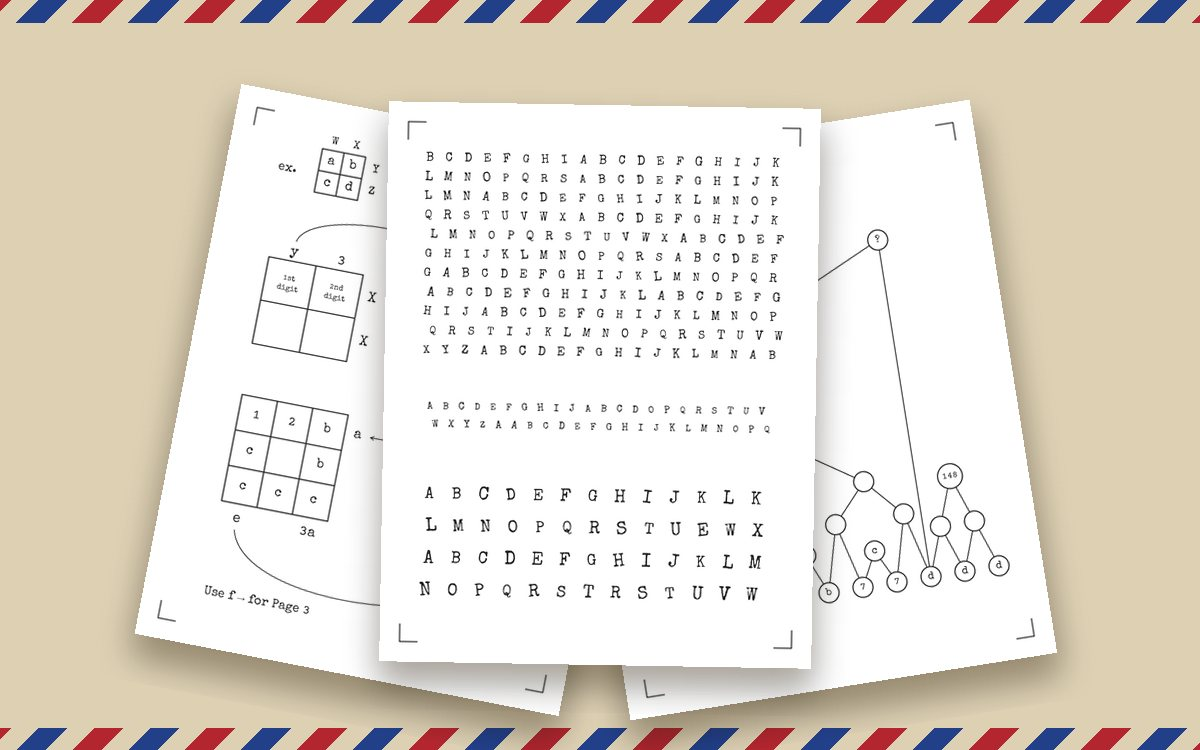
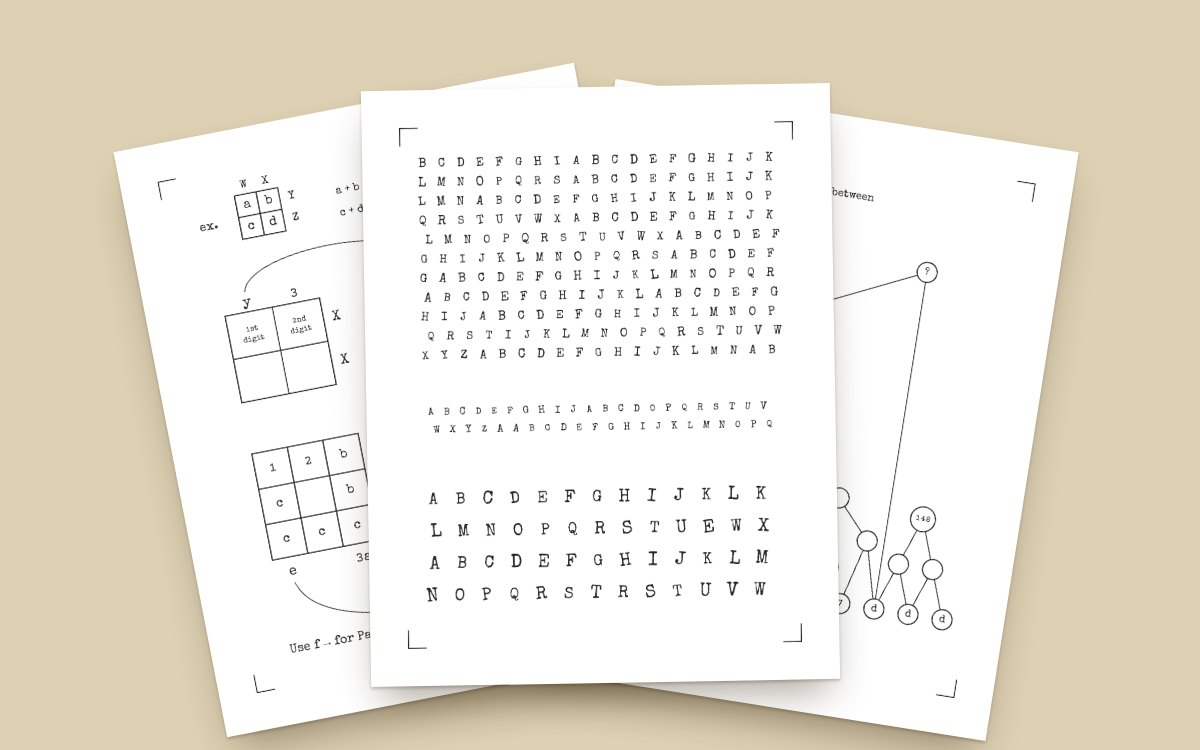
Top nav with the site name and login; no stripes or card borders
Covers are regenerated without stripes; covers.py now makes all three.

diff --git a/src/styles/global.css b/src/styles/global.css
@@ -1,5 +1,5 @@
 /* Site-wide tokens and base styles. Every page gets these through layouts/Base.astro.
-   Look: a manila envelope edged in airmail stripes, typed in typewriter faces. */
+   Look: manila paper and typewriter faces. */
 :root {
   --bg: #ddd0b3;          /* manila envelope */
   --panel: #e8ddc5;
@@ -39,10 +39,16 @@ body {
 }
 button:focus-visible, a:focus-visible, input:focus-visible { outline: 2px solid var(--blue); outline-offset: 2px; }
 
-.airmail {
-  height: 10px;
-  background: repeating-linear-gradient(-45deg, var(--red) 0 14px, transparent 14px 22px, var(--blue) 22px 36px, transparent 36px 44px);
+.topnav {
+  position: sticky; top: 0; z-index: 10;
+  display: flex; align-items: center; justify-content: space-between; gap: 16px;
+  padding: calc(env(safe-area-inset-top, 0px) + 12px) 16px 12px;
+  background: var(--bg);
 }
+.topnav .brand {
+  font-family: var(--display); font-size: 24px; line-height: 1; color: var(--ink); text-decoration: none;
+}
+.topnav .brand:hover { color: var(--muted); }
 .wrap { max-width: 1080px; margin: 0 auto; padding-inline: 16px; padding-block: 24px 56px; display: grid; gap: 28px; }
 
 .eyebrow { font-family: var(--mono); font-size: 13px; letter-spacing: .12em; text-transform: uppercase; color: var(--muted); }

diff --git a/puzzles/covers.py b/puzzles/covers.py
@@ -4,8 +4,9 @@
 
 Number Line Maze: the Warm-up as a fresh puzzle and the Big Maze solved, with its route.
 RYB: levels painted in their solution colors (read from the built pages), one unpainted.
-Each board is drawn as SVG on a sheet of paper, fanned out on manila with airmail
-stripes like the Escape Room cover, then screenshotted with headless Chrome.
+Escape Room: three of its printed sheets (the preview images in public/).
+Each board is drawn on a sheet of paper and fanned out on manila, then screenshotted
+with headless Chrome.
 """
 import html as htmllib
 import json
@@ -106,12 +107,10 @@ def cover(sheets, out: Path):
                      f'transform:rotate({ang}deg)">{svg}</div>')
     page = f"""<!doctype html><html><head><meta charset="utf-8"><style>
       html, body {{ margin: 0; width: 1200px; height: 750px; overflow: hidden; background: #ddd0b3; }}
-      .stripe {{ position: absolute; left: 0; right: 0; height: 22px;
-        background: repeating-linear-gradient(-45deg, {RED} 0 20px, transparent 20px 30px, #22408a 30px 50px, transparent 50px 60px); }}
       .sheet {{ position: absolute; padding: 18px; background: #fff;
         box-shadow: 0 2px 3px rgba(60,45,20,.25), 0 22px 40px -12px rgba(60,45,20,.45); }}
-      .sheet svg {{ display: block; width: 100%; height: 100%; }}
-    </style></head><body><div class="stripe" style="top:0"></div>{"".join(cards)}<div class="stripe" style="bottom:0"></div></body></html>"""
+      .sheet svg, .sheet img {{ display: block; width: 100%; height: 100%; }}
+    </style></head><body>{"".join(cards)}</body></html>"""
     with tempfile.TemporaryDirectory() as tmp:
         src, png = Path(tmp) / "cover.html", Path(tmp) / "cover.png"
         src.write_text(page)
@@ -123,6 +122,12 @@ def cover(sheets, out: Path):
 
 
 def main():
+    sheets_dir = ROOT / "public" / "escape-room" / "1" / "sheets"
+    sheet = lambda name: (f'<img src="{(sheets_dir / f"{name}.png").as_uri()}">', 8.5 / 11)
+    (g, ga), (l, la), (t, ta) = sheet("grids"), sheet("letters"), sheet("tree")
+    cover([(g, ga, 400, 400, 560, -11), (t, ta, 800, 410, 560, 9), (l, la, 600, 385, 560, -1)],
+          ROOT / "public" / "escape-room" / "cover.jpg")
+
     games = ROOT / "src" / "games"
     warm = json.loads((games / "number-line-maze" / "1.json").read_text())["maze"]
     big = json.loads((games / "number-line-maze" / "2.json").read_text())["maze"]

diff --git a/ARCHITECTURE.md b/ARCHITECTURE.md
@@ -60,7 +60,7 @@ Actions runs it on every push to `main`.
 | `src/pages/index.astro` | Home: game type cards. |
 | `src/pages/[type]/index.astro` | A type's numbered list. |
 | `src/pages/[type]/[n]/index.astro` | Plays an instance with its type's `Game.astro`. |
-| `src/layouts/Base.astro` | Every page's shell: `<head>`, fonts, global styles, airmail edges. |
+| `src/layouts/Base.astro` | Every page's shell: `<head>`, fonts, global styles, and the top nav (Wyatt's Games on the left, login on the right). |
 | `src/layouts/GameShell.astro` | Frame for game pages: back link, title, game, then directions. |
 | `src/styles/global.css` | Color and font tokens (light and dark), base styles, shared `.btn`, `.rules`. |
 | `src/lib/game.ts` | The game interface (`GameHost`, `MountGame`, `createHost`). |
@@ -70,7 +70,7 @@ Actions runs it on every push to `main`.
 | `worker/` | Cloudflare Worker API for accounts and saves, backed by R2. |
 | `public/<type>/` | Static files: type cover; `<n>/sheets/` PDFs and previews for escape rooms. |
 | `puzzles/build.py` | Builds and checks puzzle content for every instance. |
-| `puzzles/covers.py` | Renders the Number Line Maze and RYB cover images from real puzzles (`npm run build` first). |
+| `puzzles/covers.py` | Renders every game type's cover image from real puzzles and sheets (`npm run build` first). |
 | `puzzles/<type>/<n>/` | Sheet sources for one escape room: generator scripts and `sheets/*.html`. |
 | `puzzles/lib/number_maze.py` | Number-maze logic: board, carving, solver, checker, sketch fitting. |
 | `puzzles/number-maze/` | `new.py` (generate), `fit.py` (fit to a sketch), `check.py` (validate). |
@@ -190,7 +190,7 @@ Deliberately light security: fine for puzzle progress, not for anything private.
   `users/<name>.json` with the PIN hash, completed games and every game save.
   Saves merge by time (newer wins); completed games merge as a union.
 - **Site:** `src/lib/account.ts` (login, logout, pull, push) and
-  `src/components/Account.astro` (button top-left on every page, plus the dialog).
+  `src/components/Account.astro` (button at the right of the top nav, plus the dialog).
   Progress is always written to localStorage first. When logged in, every save
   (`GameHost.save`) and completion is pushed to the account shortly after, and each
   page load pulls the account's progress. Logging in merges this browser's progress
